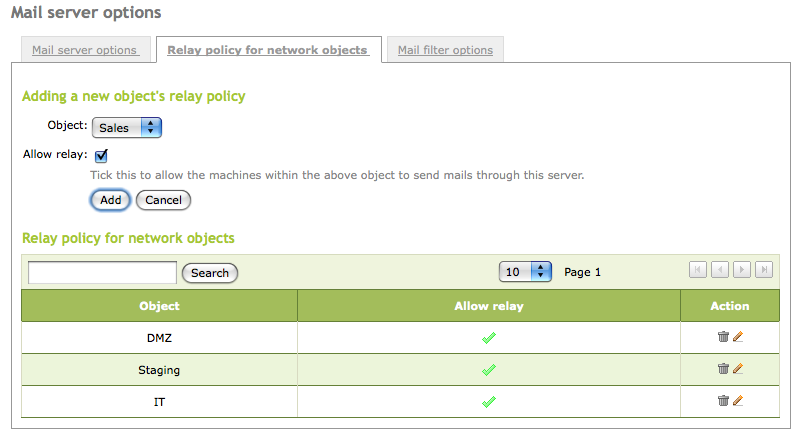
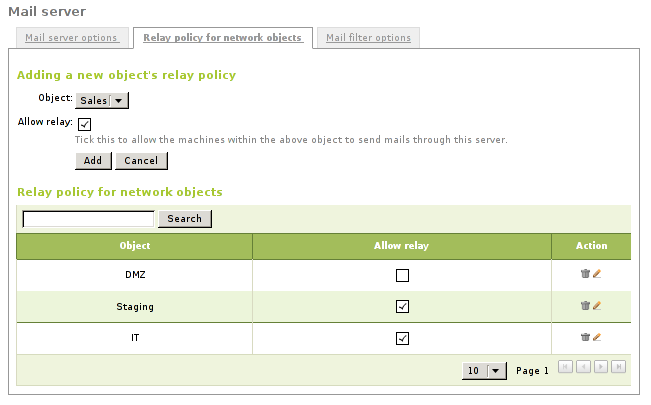
NN: updated mail screen shots
git-svn-id: http://svn.zentyal.org/zentyal/trunk@16560 866bc4c1-54da-0310-a958-9d5a9a0e8d04

diff --git a/docs/es/user/mail.rst b/docs/es/user/mail.rst
@@ -150,7 +150,6 @@ de autenticacion. Están disponibles las siguientes opciones:
 
 .. image:: images/mail/01-general.png
 
-.. FIXME: Update the shot
 
 En la sección :menuselection:`Correo --> General --> Opciones del
 servidor de correo --> Opciones` puedes configurar los parámetros
@@ -221,7 +220,6 @@ dicho objeto podrá enviar correos a través de eBox.
 
 .. image:: images/mail/02-relay.png
 
-.. FIXME: Update the show with the new edit in-place option
 
 .. warning::
    Hay que tener cuidado con usar una política de *Open Relay*, es
@@ -258,7 +256,6 @@ sea indiferente.
 .. image:: images/mail/mail-vdomains.png
    :align: center
 
-.. FIXME: Update the shot with new options
 
 Para crear cuentas de correo lo haremos de manera análoga a la
 compartición de ficheros, acudimos a :menuselection:`Usuarios y Grupos
@@ -306,7 +303,6 @@ botones que permiten borrar o reencolar todos los mensajes en la cola.
 .. image:: images/mail/04-queue.png
    :align: center
 
-.. FIXME: Update the shot with the new buttons
 
 .. _fetchmail-sec-ref:
 

diff --git a/docs/en/user/mail.rst b/docs/en/user/mail.rst
@@ -144,7 +144,7 @@ following options are available:
 
 .. image:: images/mail/01-general.png
 
-.. FIXME: Update the showt with new options
+
 
 In the :menuselection:`Mail --> General --> Mail server options -->
 Options` section you may configure the general settings for the mail
@@ -215,7 +215,6 @@ object, then each object member may relay emails through eBox.
 
 .. image:: images/mail/02-relay.png
 
-.. FIXME: Update the shot with new edit in-place option
 
 .. warning::
    Be careful when using an *Open Relay* policy, i.e., forwarding
@@ -247,7 +246,6 @@ to send an email to one virtual domain or any of its aliases.
 .. image:: images/mail/mail-vdomains.png
    :align: center
 
-.. FIXME: Update shot with new options
 
 In order to set up email accounts, you have to follow the same rules
 applied configuring any other user-based service . From
@@ -293,7 +291,6 @@ all messages in queue.
 .. image:: images/mail/04-queue.png
    :align: center
 
-.. FIXME: Update the shot with the new buttons
 
 .. _fetchmail-sec-ref:
 
